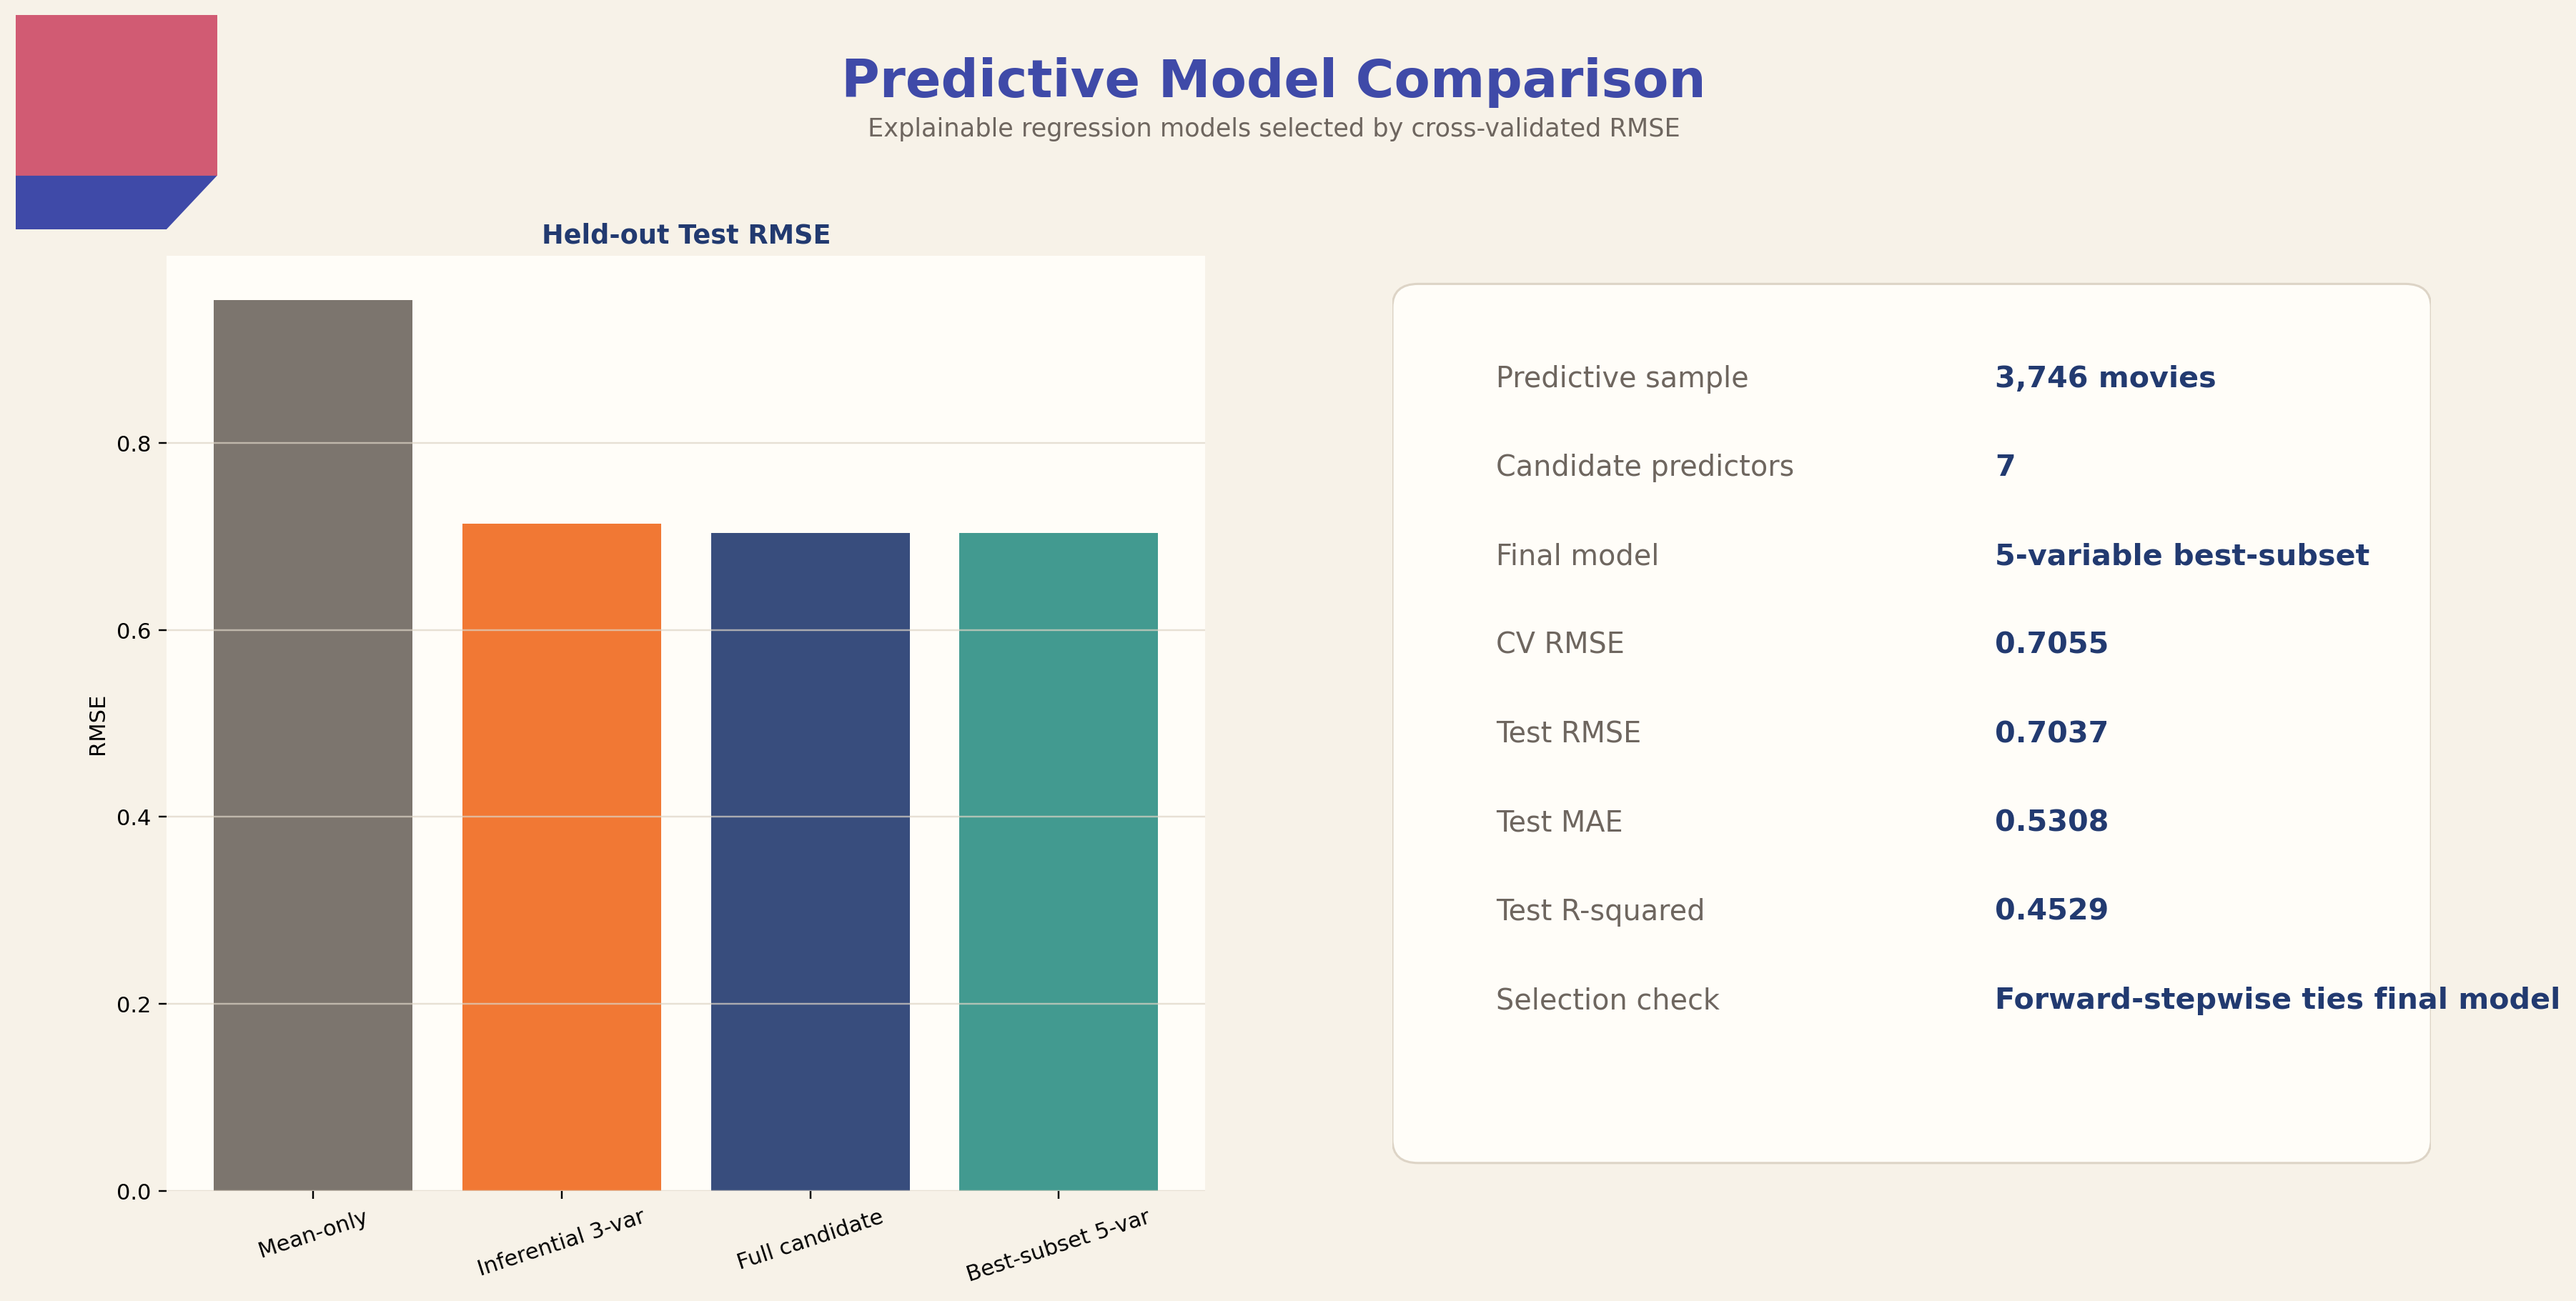
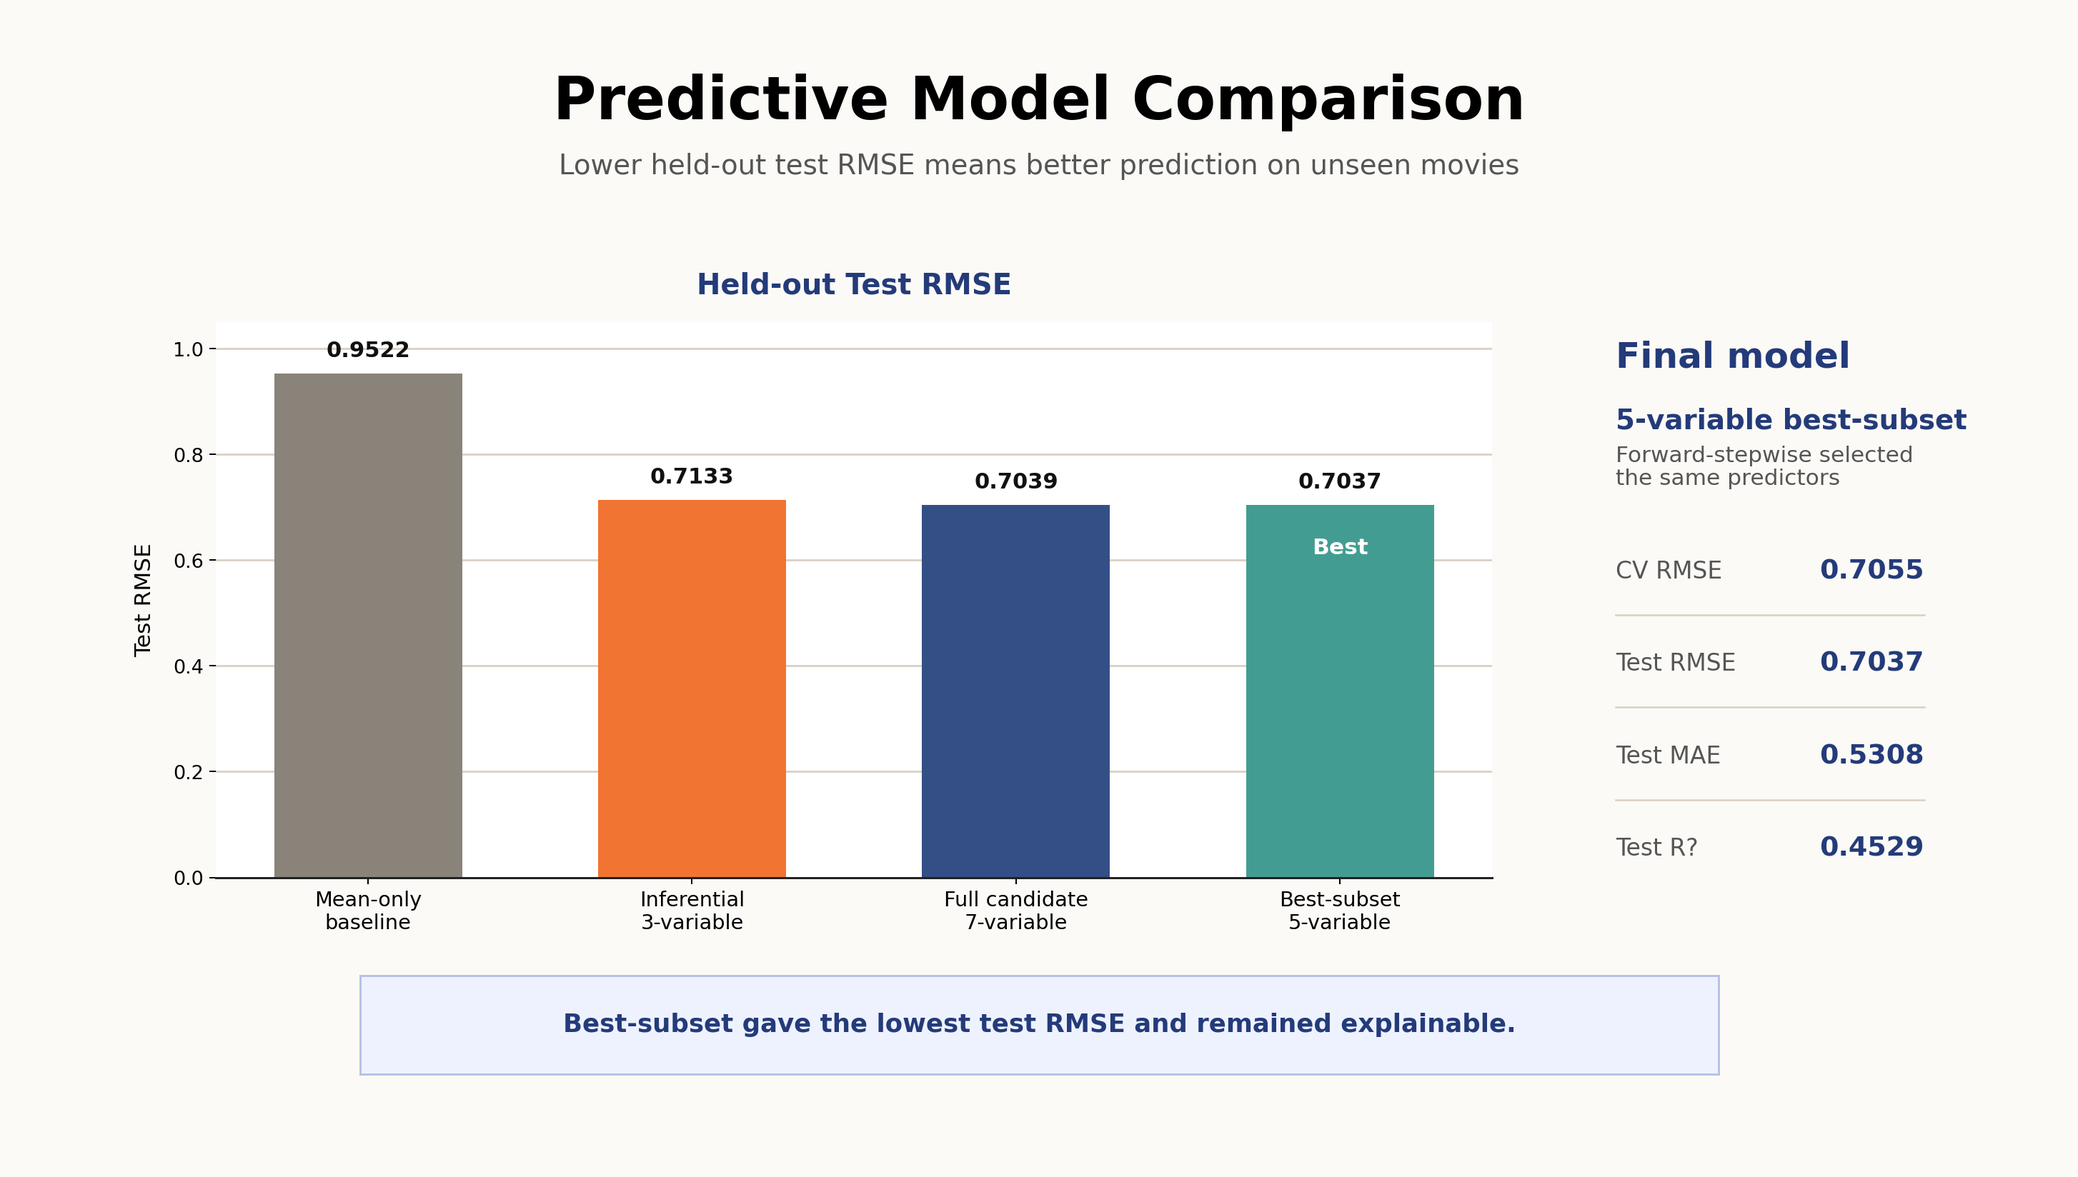
final

diff --git a/docs/presentation_slides/09_final_decision.md b/docs/presentation_slides/09_final_decision.md
@@ -1,13 +1,64 @@
 # Final Decision
 
-## Present These Points
+## Research Question
 
-- Final verdict: **Supported with qualification**
-- `audienceScore` is positively associated with popularity
-- Early review volume is a strong positive signal
-- Prediction improves when audience and review-related variables are included
-- But positive sentiment alone does **not** show a simple direct positive effect
+**Do positive audience reactions improve content popularity?**
 
-## Key Message
+## Statistical Decision
 
-- The statement is not fully rejected, but it must be presented as a **qualified conclusion**
+**Reject `H0`.**
+
+The corrected inferential model is statistically significant:
+
+- `F = 888.1409`
+- model `p < 0.001`
+- `R^2 = 0.4318`
+- adjusted `R^2 = 0.4313`
+
+This means the retained audience-reaction and early-review predictors jointly explain a statistically significant share of variation in `log_box_office`.
+
+## Evidence Across the Three Analyses
+
+Descriptive analysis:
+
+- `log_initial_review_count` has the strongest simple relationship with popularity: `r = 0.6270`
+- `audienceScore` is positive but weak at the pairwise level: `r = 0.0841`
+- early sentiment does not show a simple positive box-office pattern by itself
+
+Inferential analysis:
+
+- `audienceScore`: positive and significant, coefficient `0.0107`, `p < 0.001`
+- `log_initial_review_count`: positive and significant, coefficient `1.2176`, `p < 0.001`
+- `initial_combined_sentiment_score`: negative after controls, coefficient `-0.4314`, `p < 0.001`
+- VIF values are low, so the corrected model does not have serious multicollinearity
+- HC3 robust standard errors are used because heteroskedasticity was detected
+
+Predictive analysis:
+
+- final model: 5-variable best-subset regression
+- test RMSE: `0.7037`
+- test MAE: `0.5308`
+- test `R^2 = 0.4529`
+- CV RMSE `0.7055` is close to test RMSE `0.7037`, so strong overfitting is not indicated
+
+## Final Verdict
+
+**Supported with qualification.**
+
+The data support that positive audience reaction is significantly associated with popularity, especially through `audienceScore`, and that early review attention is a strong and consistent popularity signal.
+
+However, the statement should not be presented as fully proven causally because:
+
+- the data are observational secondary data
+- the strongest evidence is for early review volume / attention, not sentiment positivity alone
+- early sentiment is negative after controlling for audience score and review volume
+
+## Slide Figure
+
+Use:
+
+`images/final_decision_slide.png`
+
+## Speaker Note
+
+Based on the inferential model, we reject the null hypothesis at the 5% level because the model is highly significant with `p < 0.001`. The evidence supports the idea that audience reaction and early review behavior are related to popularity. But the best final wording is “supported with qualification,” because the strongest signal is early review attention and the analysis shows association and prediction, not proven causation.

diff --git a/docs/presentation_slides/07b_predictive_model_comparison.md b/docs/presentation_slides/07b_predictive_model_comparison.md
@@ -1,0 +1,31 @@
+# Predictive Model Comparison
+
+## Slide Purpose
+
+Show that multiple explainable regression models were compared before choosing the final model.
+
+## Models Compared
+
+- Mean-only baseline
+- Inferential 3-variable regression
+- Full 7-variable candidate model
+- Best-subset regression
+- Forward-stepwise regression
+
+## Key Results
+
+- Mean-only baseline test RMSE: `0.9522`
+- Inferential 3-variable model test RMSE: `0.7133`
+- Full candidate model test RMSE: `0.7039`
+- Best-subset 5-variable model test RMSE: `0.7037`
+- Forward-stepwise selected the same 5-variable model.
+
+## Figure
+
+Use:
+
+`images/predictive_model_comparison.png`
+
+## Speaker Note
+
+The baseline model performs worst, which means the predictors contain useful signal. The best-subset and forward-stepwise methods both selected the same final feature set, so the final model choice is stable.

diff --git a/docs/presentation_slides/07a_predictive_setup.md b/docs/presentation_slides/07a_predictive_setup.md
@@ -1,0 +1,24 @@
+# Predictive Analysis Setup
+
+## Slide Purpose
+
+Explain how the predictive workflow is different from inferential analysis.
+
+## Main Points
+
+- Goal: predict `log_box_office` for unseen movies.
+- Target variable: `log_box_office`.
+- Candidate predictors: 7 explainable movie, audience, critic, and early-review variables.
+- Modelling sample: 3,746 complete rows.
+- Validation: 80/20 train-test split and 5-fold cross-validation on the training set.
+- Selection rule: choose the model with the lowest cross-validated RMSE.
+
+## Figure
+
+Use:
+
+`images/predictive_workflow_slide.png`
+
+## Speaker Note
+
+Inferential analysis asked whether the selected predictors are statistically significant. Predictive analysis asks whether an explainable model can accurately predict box-office popularity on movies not used to train the model.

diff --git a/docs/presentation_slides/07c_final_predictive_model.md b/docs/presentation_slides/07c_final_predictive_model.md
@@ -1,0 +1,32 @@
+# Final Predictive Model
+
+## Slide Purpose
+
+Present the selected model, its predictors, and final held-out test performance.
+
+## Final Selected Model
+
+5-variable best-subset regression using:
+
+- `audienceScore`
+- `tomatoMeter`
+- `initial_top_critic_review_count`
+- `initial_positive_review_ratio`
+- `log_initial_review_count`
+
+## Performance
+
+- CV RMSE: `0.7055`
+- Test RMSE: `0.7037`
+- Test MAE: `0.5308`
+- Test R-squared: `0.4529`
+
+## Figure
+
+Use:
+
+`images/predictive_final_model_slide.png`
+
+## Speaker Note
+
+The final model explains about 45.3% of unseen variation in logged box office. The strongest message is that early review volume and audience or critic reaction variables improve prediction compared with simple baselines.
